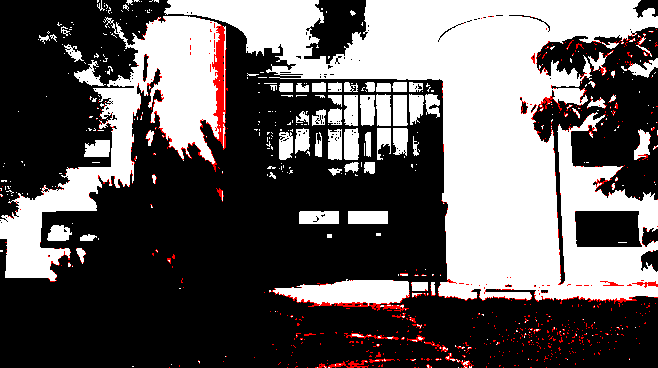
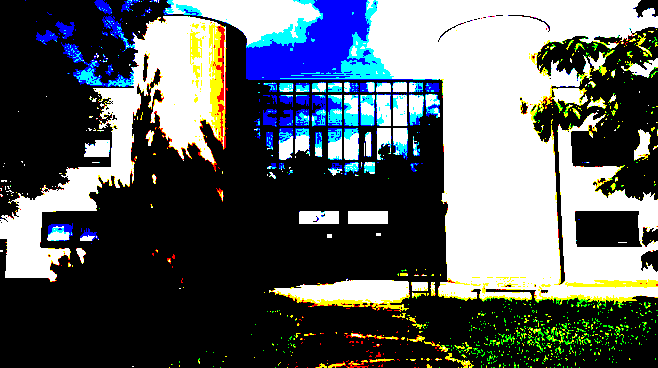
debut du readme

diff --git a/README.md b/README.md
@@ -1,6 +1,127 @@
-Question 6 : Comment récupérer la luminosité d’un pixel ?
+DEPONT Samuel
+FERDOEL TITOUAN
 
-La luminosité d’un pixel en mode RGB peut être calculée en utilisant une formule standard basée sur la perception humaine de la lumière. Les coefficients utilisés pour chaque composante de couleur reflètent la sensibilité de l’œil humain :
-L=0.299×R+0.587×G+0.114×B
+TP_DITHERING
 
-Ici, R, G, et B sont les composantes rouge, verte et bleue du pixel.
+Question 1 : Créer un nouveau projet Cargo, avec une dépendance sur la bibliothèque image, version 0.24
+
+```
+cargo new TP_DITHERING
+cd TP_DITHERING
+```
+
+AJout de la dépendance dans le fichier Cargo.toml
+
+```
+[dependencies]
+image = "0.24"
+```
+
+Question 2 : Pour ouvrir une image depuis un fichier, on utilise ImageReader::open("myimage.png")?.decode()?; On obtient un DynamicImage, à quoi correspond ce type? Comment obtenir une image en mode rbg8 à partir de ce DynamicImage?
+
+Afin d'ouvrir une image depuis un fichier, on utilise image::open, on obtient alors un DynamicImage qu'on peut passer en RGB8 en utilisant la méthode to_rgb8.
+
+```
+let rgb_img: RgbImage = img.to_rgb8();
+```
+
+Question 3 : Sauver l’image obtenue au format png. Que se passe-t-il si l’image de départ avait un canal alpha?
+
+Lors de la convertion de l'image en RGB8, si l'image initiale avait une couche alpha, la convertion va simplement supprimer la couche alpha.
+
+
+Question 4 : Afficher dans le terminal la couleur du pixel (32, 52) de l’image de votre choix.
+
+```
+use image::GenericImageView;
+
+let pixel = image_iut.get_pixel(32, 52);
+println!("Pixel (32, 52) : {:?}", pixel);
+```
+
+Question 5 : Passer un pixel sur deux d’une image en blanc. Est-ce que l’image obtenue est reconnaissable?
+
+```
+for y in 0..height {
+    for x in 0..width {
+        if x % 2 == 0 {
+            img.put_pixel(x, y, Rgb([255, 255, 255]));
+        }
+    }
+}
+```
+
+![Image](./image/output_white.png)
+
+Question 6 : Comment récupérer la luminosité d’un pixel?
+    L'opération de matriçage des composantes R′, G′ et B′ permet ensuite de construire la luma Y′. 
+    Selon les recommandations UIT-R BT 709, la luma est construite par
+
+    Y = 0,2126*R + 0,7152*G + 0,0722*B 
+
+Question 7 : Implémenter le traitement
+
+```
+// renvoie la luminosité d'un pixel
+fn luminosite(pixel: &Rgb<u8>) -> u8 {
+    let Rgb(data) = pixel;
+    (0.2126 data[0] as f32 + 0.7152 * data[1] as f32 + 0.0722 * data[2] as f32) as u8
+}
+
+//applie un seuillage monochrome sur une image
+fn apply_seuil(image: &mut RgbImage, couleur_claire: Rgb<u8>, couleur_foncee: Rgb<u8>) {
+    let (width, height) = image.dimensions();
+    for y in 0..height {
+        for x in 0..width {
+            let pixel = image.get_pixel(x, y);
+            let lum = luminosite(pixel);
+            let new_pixel = if lum >= 128 {
+                couleur_claire
+            } else {
+                couleur_foncee
+            };
+            image.put_pixel(x, y, new_pixel);
+        }
+    }
+} 
+```
+
+Question 8 : 
+
+```
+// renvoie une couleur a partie d'un string "R,G,B"
+fn parse_color(colorstr: &str) -> Result<Rgb<u8>, String> {
+    let values: Result<Vec<u8>, > = colorstr
+        .split(',')
+        .map(|s| s.trim().parse::<u8>())
+        .collect();
+
+    match values {
+        Ok(rgb) if rgb.len() == 3 => Ok(Rgb([rgb[0], rgb[1], rgb[2]])),
+         => Err("Format de couleur invalide. Utilisez R,G,B (ex: 255,0,0)".to_string())
+    }
+}
+struct OptsSeuil {
+    /// couleur claire (format R,G,B, ex: "255,0,0" pour rouge)
+    #[argh(option, default = "String::from("255,255,255")")]
+    couleur_claire: String,
+
+    /// couleur foncée (format R,G,B, ex: "0,0,255" pour bleu)
+    #[argh(option, default = "String::from("0,0,0")")]
+    couleur_foncee: String,
+}
+```
+```
+cargo run -- images/input/img_iut.jpg images/output/output.png seuil
+```
+ noir et blanc
+
+```
+cargo run -- images/input/img_iut.jpg images/output/output.png seuil --couleur-claire "255,0,0" --couleur-foncee "0,0,255"
+```
+
+
+pour seuil bleu et rouge
+
+![Image Rouge](./image/output_rouge.png)
+
